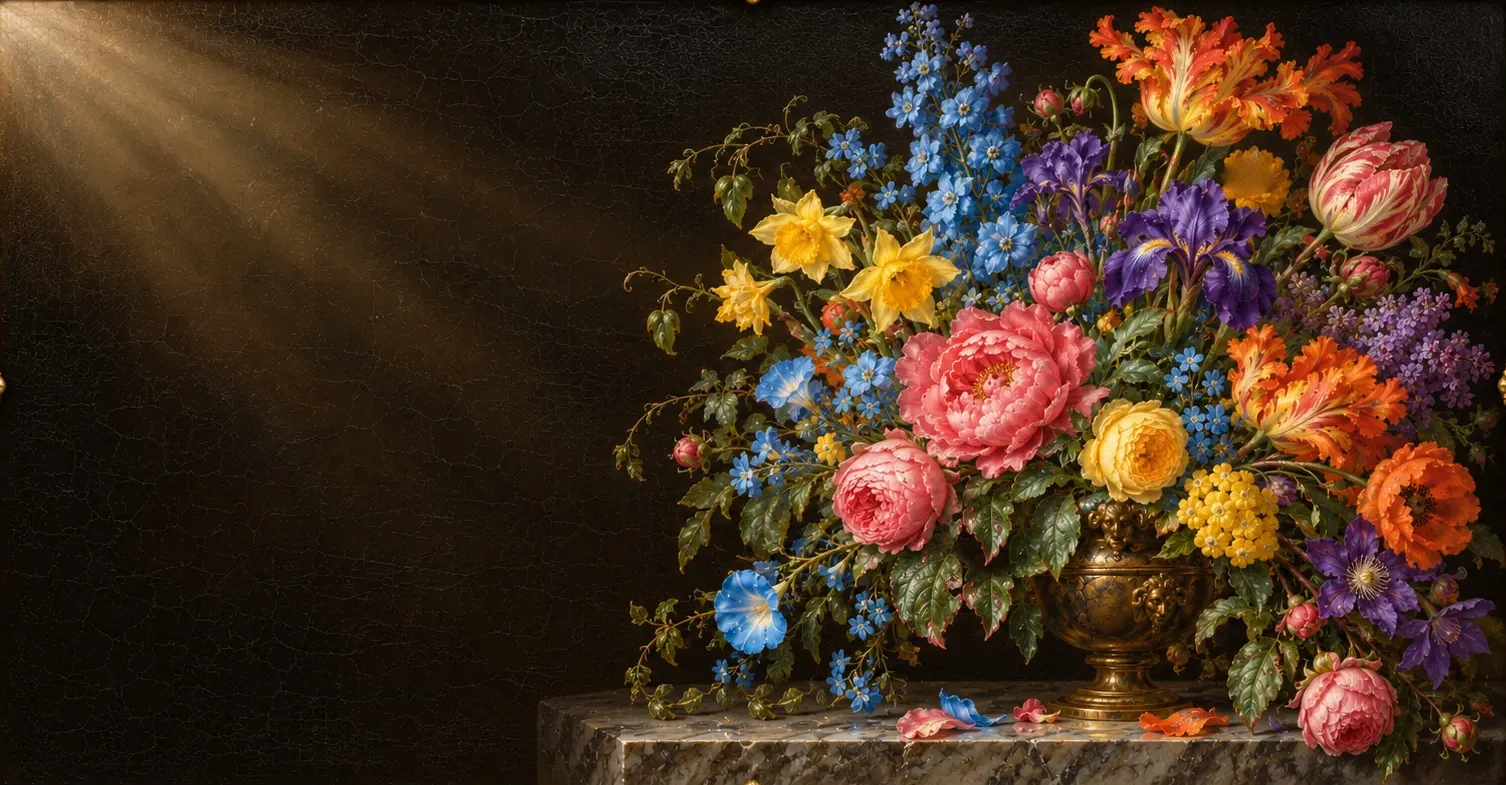
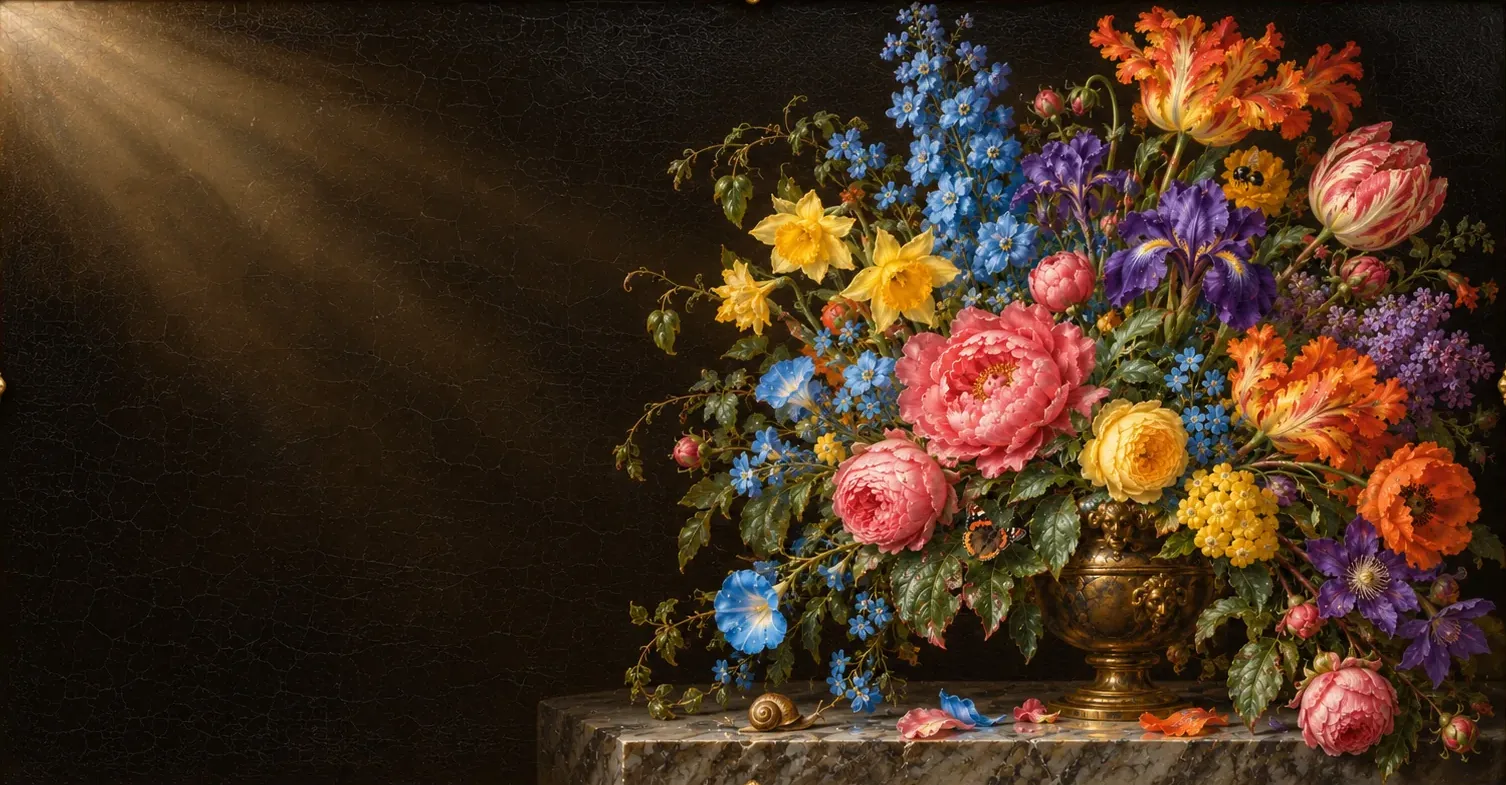
Ta bort de levande djuren i Masterverket igen
Återställer 22b9c83: biet, fjärilen och snigeln är tillbaka som målade i
dukbilderna och rör sig inte längre.

Claude-Session: https://claude.ai/code/session_01LeSnNtK4HWJbbgdQwaRbmK

Changed region(s): [[0.6242, 0.6115, 0.6866, 0.7338], [0.4681, 0.8561, 0.5618, 0.9478], [0.8114, 0.1834, 0.8426, 0.2446]]

diff --git a/src/components/Masterverket.tsx b/src/components/Masterverket.tsx
@@ -3,7 +3,6 @@ import { Pause, Play } from "lucide-react";
 import { Fragment, useEffect, useRef, useState } from "react";
 import { BokaKnapp } from "@/components/Boka";
 import { Mark } from "@/components/Heading";
-import { skapaDjur } from "@/components/masterverket-djur";
 import { FORETAG } from "@/lib/foretag";
 import { kr, LAGSTA_MANADSPRIS } from "@/lib/priser";
 import { tjanstSokvag } from "@/lib/tjanster";
@@ -314,13 +313,6 @@ export function Masterverket() {
     let sistaSlapp = 0;
     let nastaAuto = 0;
     let pekare: { x: number; y: number } | null = null;
-    let pekareKlient: { x: number; y: number } | null = null;
-    const djur = skapaDjur({
-      lager,
-      duk,
-      smal,
-      blommor: () => BLOMMOR[smal.matches ? "smal" : "bred"],
-    });
     let bredd = 0;
     let hojd = 0;
     let skala = 1;
@@ -339,7 +331,6 @@ export function Masterverket() {
         return p;
       });
       ritaDamm(0);
-      djur.stillbild();
     };
 
     // Kornen föds på en slumpad plats inne i strålen (polärt från dukens övre vänstra hörn).
@@ -501,10 +492,7 @@ export function Masterverket() {
         if (!kvar) b.el.remove();
         return kvar;
       });
-      if (!stopp) {
-        ritaDamm(dt);
-        djur.uppdatera(dt, tid, pekareKlient);
-      } else djur.stillbild();
+      if (!stopp) ritaDamm(dt);
       // Pausat: bladen som redan faller får landa, sedan vilar loopen helt.
       if (!stopp || blad.length) vacka();
       else forra = 0;
@@ -523,7 +511,6 @@ export function Masterverket() {
     const onMove = (e: PointerEvent) => {
       const r = ljus.getBoundingClientRect();
       pekare = { x: e.clientX - r.left, y: e.clientY - r.top };
-      pekareKlient = { x: e.clientX, y: e.clientY };
       if (stilla.matches) return;
       if (sistaX !== null) vind = Math.max(-1, Math.min(1, vind + (e.clientX - sistaX) / 900));
       sistaX = e.clientX;
@@ -536,11 +523,6 @@ export function Masterverket() {
     };
     const onDown = (e: PointerEvent) => {
       if (stilla.matches || (e.target instanceof Element && e.target.closest("a, button"))) return;
-      // Pekskärm: ett tryck nära ett djur skrämmer det en kort stund, som en mus som passerar.
-      if (e.pointerType !== "mouse") {
-        pekareKlient = { x: e.clientX, y: e.clientY };
-        window.setTimeout(() => (pekareKlient = null), 700);
-      }
       if (inomBuketten(e.clientX, e.clientY)) {
         slapp(e.clientX, e.clientY);
         vacka();
@@ -549,7 +531,6 @@ export function Masterverket() {
     const onLeave = () => {
       sistaX = null;
       pekare = null;
-      pekareKlient = null;
     };
     const onFlik = () => (document.visibilityState === "visible" ? vacka() : stanna());
     const onStilla = () => {
@@ -589,7 +570,6 @@ export function Masterverket() {
       stilla.removeEventListener("change", onStilla);
       smal.removeEventListener("change", matLjus);
       for (const b of blad) b.el.remove();
-      djur.taBort();
       blad = [];
     };
   }, []);

diff --git a/src/styles.css b/src/styles.css
@@ -545,15 +545,6 @@
   perspective: 700px;
   pointer-events: none;
 }
-.tavla-djur {
-  position: absolute;
-  top: 0;
-  left: 0;
-  max-width: none;
-  height: auto;
-  will-change: transform;
-  filter: drop-shadow(0 3px 3px rgb(20 12 4 / 0.35));
-}
 .tavla-kronblad {
   position: absolute;
   top: 0;
@@ -756,7 +747,7 @@ main:has(.fyr-panel) + footer > div {
     -webkit-mask-image: none;
     mask-image: none;
   }
-  /* Lagret med djuren syns ändå: de sitter stilla på sina platser i målningen. */
+  .tavla-blad,
   .tavla-paus {
     display: none;
   }
